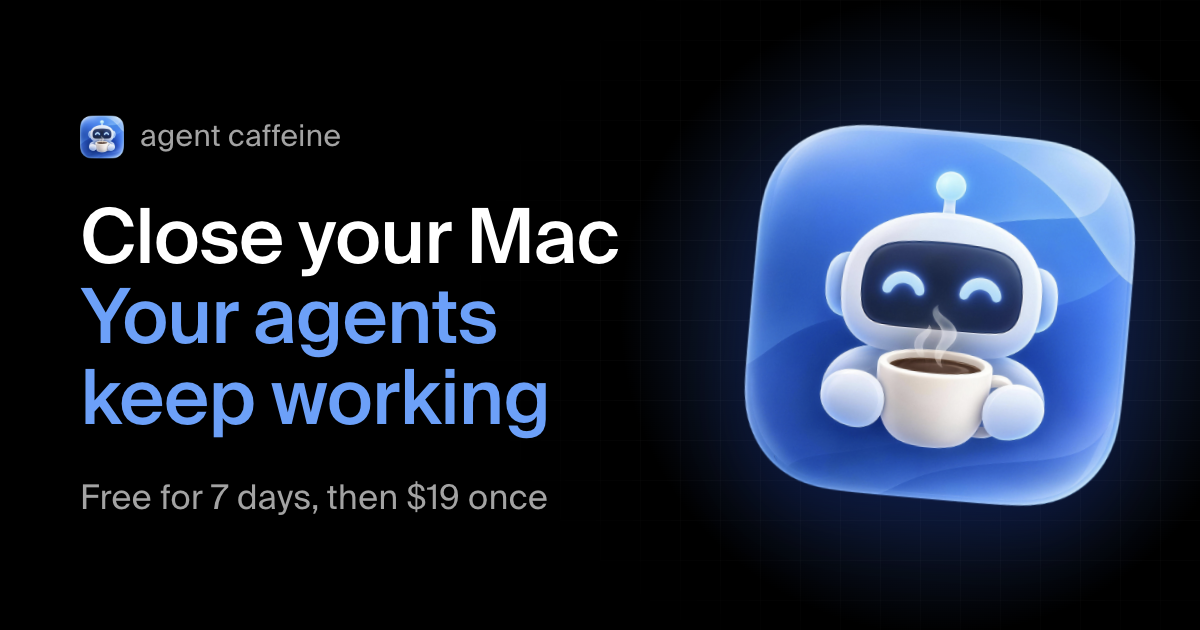
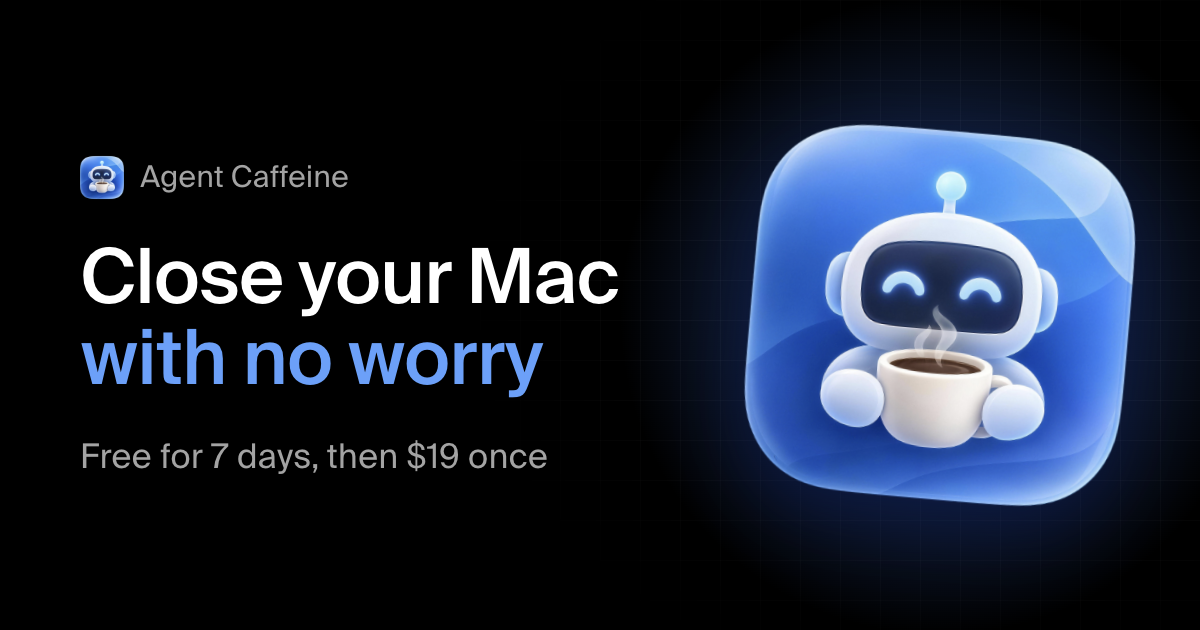
Write the brand as Agent Caffeine across the site, and keep the app's own words as the app has them

Changed region(s): [[0.0617, 0.181, 0.5242, 0.8143]]

diff --git a/site/app/llms.txt/route.ts b/site/app/llms.txt/route.ts
@@ -7,21 +7,21 @@ export const dynamic = "force-static";
 /** "A license key for 1 Mac costs $19." for each plan on offer. */
 const KEYS = PLANS.map((plan) => `A license key for ${macs(plan)} costs ${dollars(plan)}.`).join(" ");
 
-const TEXT = `# agent caffeine
+const TEXT = `# Agent Caffeine
 
-> agent caffeine is a macOS menu bar app that keeps a Mac awake while AI coding agents work, also with the lid closed, and lets it sleep when they are idle or wait for you. It has a 7-day free trial, then costs ${PRICE} once, and runs on macOS 13 or later (Apple silicon and Intel).
+> Agent Caffeine is a macOS menu bar app that keeps a Mac awake while AI coding agents work, also with the lid closed, and lets it sleep when they are idle or wait for you. It has a 7-day free trial, then costs ${PRICE} once, and runs on macOS 13 or later (Apple silicon and Intel).
 
-- Detects more than ${agentsMoreThan} coding agents (Claude Code, Codex, Cursor, opencode, Gemini CLI and others). Claude Code, Codex and Cursor report their own state (working, waiting for you, or idle), and agent caffeine reads it on the Mac. It also watches the commands an agent started, so a build that is still busy keeps the Mac awake. Other agents are judged by signs of work, such as a running command or a write to the session file.
+- Detects more than ${agentsMoreThan} coding agents (Claude Code, Codex, Cursor, opencode, Gemini CLI and others). Claude Code, Codex and Cursor report their own state (working, waiting for you, or idle), and Agent Caffeine reads it on the Mac. It also watches the commands an agent started, so a build that is still busy keeps the Mac awake. Other agents are judged by signs of work, such as a running command or a write to the session file.
 - An agent that waits for your answer keeps the Mac awake for 5 minutes, then the Mac can sleep. Idle sessions do not keep it awake in the default mode. The times can be changed in Settings.
-- Optional better detection: Claude Code, Codex, Cursor, Droid, opencode and Pi can report their state to agent caffeine directly. It is off until you switch it on per agent, and switching it off removes it again.
+- Optional better detection: Claude Code, Codex, Cursor, Droid, opencode and Pi can report their state to Agent Caffeine directly. It is off until you switch it on per agent, and switching it off removes it again.
 - Three modes: always, while an agent is open, or while an agent is working (the default).
 - A closed lid on the power adapter works from the start. On battery it needs a small helper that you allow once in System Settings, and it turns on the \`SleepDisabled\` setting of macOS only while it holds the Mac awake.
 - Safety: when the battery is at 20% (adjustable, or off) or the Mac gets too hot, it lets the Mac sleep and says why in a notification. After a battery stop it starts again at 25%, or when the Mac is plugged in. Do not put a working Mac in a closed bag. On battery the menu shows the charge and that level on one line.
 - The built-in display dims as the lid closes and stays dark while the lid is closed. On a Mac with a lid angle sensor it dims from 45 degrees of lid opening down to closed, and gets bright again the same way when the lid opens.
-- Pause for 30 minutes, 1 hour or until tomorrow. agent caffeine starts again by itself.
+- Pause for 30 minutes, 1 hour or until tomorrow. Agent Caffeine starts again by itself.
 - Stay reachable for 1, 2 or 4 hours: the Mac stays awake until that time, also when no agent works, so a message from a phone (Claude Code Remote Control, Codex remote) reaches the agent. On battery with the lid closed it needs the helper, and it uses about 1% of battery per hour. A message cannot wake a Mac that sleeps.
 - Notifications, each with its own switch: an agent is waiting for your answer (on by default), and an agent finished (off by default).
-- Keyboard shortcuts that work in every app. By default Control+Option+Command+C turns agent caffeine on or off, and Control+Option+Command+P pauses it for 1 hour. You can choose other keys.
+- Keyboard shortcuts that work in every app. By default Control+Option+Command+C turns Agent Caffeine on or off, and Control+Option+Command+P pauses it for 1 hour. You can choose other keys.
 - The menu bar icon can be hidden. The app keeps the Mac awake the same way without it.
 - A 7-day free trial with every feature. It starts the first time the app opens and needs no account, no card and no key. After 7 days the app stops keeping the Mac awake until a license key is entered. The app and its settings stay.
 - ${KEYS} Each is a one-time purchase with lifetime updates and no subscription. Deactivate a Mac in the app or in your Polar purchases to move the key to another.

diff --git a/site/lib/faq.tsx b/site/lib/faq.tsx
@@ -17,7 +17,7 @@ const objections: FaqItem[] = [
         program quits or you stop them. They do not know if an agent works or is idle, so your Mac
         stays awake after the work is done, or sleeps in the middle of it. A command such as
         caffeinate also cannot keep your Mac awake when you close the lid on battery: macOS sleeps
-        then. agent caffeine has a small helper for that, which you allow once. It reads what your
+        then. Agent Caffeine has a small helper for that, which you allow once. It reads what your
         agents do, keeps your Mac awake while they work, and lets it sleep when they are done.
       </>
     ),
@@ -28,12 +28,12 @@ const objections: FaqItem[] = [
     answer: (
       <>
         Not in a closed bag. Do not put your Mac in a closed bag while an agent works: a Mac that
-        works gets warm, and a closed bag keeps the heat in. agent caffeine has two stops for
+        works gets warm, and a closed bag keeps the heat in. Agent Caffeine has two stops for
         safety. When your Mac gets too hot, it always lets your Mac sleep. On battery it lets your
         Mac sleep at {BATTERY_FLOOR}% and starts again at {BATTERY_FLOOR + BATTERY_RECOVERY}%, or
         when you plug in. You can change this level or turn it off in Settings. A notification
         tells you why your Mac slept. The display is off while the lid is closed. Before you put
-        your Mac in a closed bag, pause agent caffeine, and your Mac sleeps as usual.
+        your Mac in a closed bag, pause Agent Caffeine, and your Mac sleeps as usual.
       </>
     ),
   },
@@ -42,7 +42,7 @@ const objections: FaqItem[] = [
     open: true,
     answer: (
       <>
-        No. When no agent works, agent caffeine lets your Mac sleep as usual. In the default mode
+        No. When no agent works, Agent Caffeine lets your Mac sleep as usual. In the default mode
         it keeps your Mac awake while an agent works, for 2 minutes after it finishes, and for 5
         minutes when it waits for your answer. An agent that is open and idle does not keep your
         Mac awake. You can change the times in Settings.
@@ -55,9 +55,9 @@ const objections: FaqItem[] = [
     answer: (
       <>
         Only for one case: the lid is closed and your Mac runs on battery. Only the system can
-        stop macOS from sleeping then, so agent caffeine has a small helper that runs with system
+        stop macOS from sleeping then, so Agent Caffeine has a small helper that runs with system
         rights. You allow it once in System Settings &gt; General &gt; Login Items. It changes one
-        sleep setting of macOS while agent caffeine keeps your Mac awake, and changes it back
+        sleep setting of macOS while Agent Caffeine keeps your Mac awake, and changes it back
         after. You can remove it in the app&apos;s Settings. Everything else works without the
         helper, also the lid closed on the power adapter.
       </>
@@ -70,7 +70,7 @@ const trialItem: FaqItem = {
   question: "Is there a free trial?",
   answer: (
     <>
-      Yes. agent caffeine is a free download for macOS 13 or later, on Apple silicon and Intel.
+      Yes. Agent Caffeine is a free download for macOS 13 or later, on Apple silicon and Intel.
       Every feature works for 7 days from the first time you open it, with no account, no card
       and no key. After 7 days it stops keeping your Mac awake until you enter a license key, and
       your settings stay. A key costs {PRICE_LIST}, paid once.
@@ -88,7 +88,7 @@ const questions: FaqItem[] = [
         still busy keeps your Mac awake after the agent is done. For other agents it watches signs
         of work, such as a running command or a write to the session file. For Claude Code, Codex,
         Cursor, Droid, opencode and Pi you can switch on better detection in Settings. The agent then
-        tells agent caffeine its state directly, and you can switch it off again at any time.
+        tells Agent Caffeine its state directly, and you can switch it off again at any time.
       </>
     ),
   },

diff --git a/site/components/sleep-scenes.tsx b/site/components/sleep-scenes.tsx
@@ -102,7 +102,7 @@ function BatteryStop() {
         className={`w-full max-w-[19rem] transition-[opacity,transform] duration-slow ease-smooth-out motion-reduce:transition-none ${low ? "translate-y-0 opacity-100" : "translate-y-2 opacity-0"}`}
         style={{ transitionDelay: low && !lessMotion ? `${DRAIN}ms` : "0ms" }}
       >
-      <PanelSurface className="flex items-start gap-2.5 rounded-2xl p-2.5 shadow-[0_8px_24px_var(--shadow)]" label="A notification from agent caffeine">
+      <PanelSurface className="flex items-start gap-2.5 rounded-2xl p-2.5 shadow-[0_8px_24px_var(--shadow)]" label="A notification from Agent Caffeine">
         <img alt="" className="size-8 shrink-0" decoding="async" height={32} loading="lazy" src="/icon.png" width={32} />
         <span className="flex min-w-0 flex-col gap-px text-[12px] leading-4">
           <span className="font-medium">agent caffeine</span>
@@ -132,10 +132,10 @@ export function SleepScenes() {
       <SectionHeading lead="It keeps your Mac awake for work, and for nothing else" title="It lets your Mac sleep at the right time" />
       <ul className="mx-auto grid w-full max-w-[36rem] gap-4 lg:max-w-none lg:grid-cols-3">
         <Scene
-          text="agent caffeine keeps your Mac awake for 5 minutes, so you can answer. After that your Mac can sleep. You can change the time"
+          text="Agent Caffeine keeps your Mac awake for 5 minutes, so you can answer. After that your Mac can sleep. You can change the time"
           title="An agent asks you something while you are away"
         >
-          <PanelSurface className="panel-still flex h-full flex-col justify-center rounded-none border-0" label="The agent caffeine menu while Claude Code waits for you">
+          <PanelSurface className="panel-still flex h-full flex-col justify-center rounded-none border-0" label="The Agent Caffeine menu while Claude Code waits for you">
             <div className="flex items-center gap-3 px-4 pb-3">
               <Robot pose="attentive" size={56} still />
               <p className="flex min-w-0 flex-col gap-0.5">
@@ -150,7 +150,7 @@ export function SleepScenes() {
           </PanelSurface>
         </Scene>
         <Scene
-          text={`Your agents keep working. On battery, macOS asks you once to allow a small helper. agent caffeine lets your Mac sleep at ${BATTERY_FLOOR}% battery and when it gets too hot. Do not put a working Mac in a closed bag`}
+          text={`Your agents keep working. On battery, macOS asks you once to allow a small helper. Agent Caffeine lets your Mac sleep at ${BATTERY_FLOOR}% battery and when it gets too hot. Do not put a working Mac in a closed bag`}
           title="The lid is closed and your Mac runs on battery"
         >
           <BatteryStop />
@@ -159,7 +159,7 @@ export function SleepScenes() {
           text="A session is one open chat with an agent. Only the one that works keeps your Mac awake"
           title="10 sessions are open and 1 is working"
         >
-          <PanelSurface className="panel-still flex h-full flex-col justify-center rounded-none border-0 px-[13px]" label="The agent caffeine menu with one working session and nine idle ones">
+          <PanelSurface className="panel-still flex h-full flex-col justify-center rounded-none border-0 px-[13px]" label="The Agent Caffeine menu with one working session and nine idle ones">
             {ONE_OF_TEN.map((group) => (
               <GroupRows key={group.agent} group={group} />
             ))}

diff --git a/site/components/small-things.tsx b/site/components/small-things.tsx
@@ -129,7 +129,7 @@ export function SmallThings() {
           text="Your Mac stays awake for 1, 2 or 4 hours, so a message from your phone reaches your agent"
           title="Stay reachable from your phone"
         >
-          <PanelSurface className="panel-still w-full max-w-[19rem]" label="The agent caffeine menu while your Mac stays reachable until 11:41">
+          <PanelSurface className="panel-still w-full max-w-[19rem]" label="The Agent Caffeine menu while your Mac stays reachable until 11:41">
             <div className="flex items-center gap-3 px-4 py-2.5">
               <Robot pose="reachable" size={40} still />
               <p className="flex min-w-0 flex-col gap-0.5">
@@ -147,7 +147,7 @@ export function SmallThings() {
             </div>
           </PanelSurface>
         </Thing>
-        <Thing text="Pause for 30 minutes, 1 hour or until tomorrow. agent caffeine starts again by itself" title="Pause it for a while">
+        <Thing text="Pause for 30 minutes, 1 hour or until tomorrow. Agent Caffeine starts again by itself" title="Pause it for a while">
           <PanelSurface className="rounded-[10px] p-[5px] shadow-[0_8px_24px_var(--shadow)]" label="The timer menu: pause for 30 minutes, for 1 hour or until tomorrow">
             <ul aria-hidden="true">
               <TimerChoices active={1} bar={{ reachable: false, reachableCost: null }} />
@@ -160,7 +160,7 @@ export function SmallThings() {
         >
           <PanelSurface
             className="flex w-full max-w-[19rem] items-start gap-2.5 rounded-2xl p-2.5 shadow-[0_8px_24px_var(--shadow)]"
-            label="A notification from agent caffeine: Claude Code is waiting for you"
+            label="A notification from Agent Caffeine: Claude Code is waiting for you"
           >
             <img alt="" className="size-8 shrink-0" decoding="async" height={32} loading="lazy" src="/icon.png" width={32} />
             <span className="flex min-w-0 flex-col gap-px text-[12px] leading-4">
@@ -170,12 +170,12 @@ export function SmallThings() {
             </span>
           </PanelSurface>
         </Thing>
-        <Thing text="On battery the menu shows the charge, and the level where agent caffeine lets your Mac sleep" title="You see how much battery is left">
-          <PanelSurface className="flex w-full max-w-[19rem] justify-center px-4 py-3.5" label="The line of the battery in the agent caffeine menu">
+        <Thing text="On battery the menu shows the charge, and the level where Agent Caffeine lets your Mac sleep" title="You see how much battery is left">
+          <PanelSurface className="flex w-full max-w-[19rem] justify-center px-4 py-3.5" label="The line of the battery in the Agent Caffeine menu">
             <BatteryLine battery={NEAR_FLOOR} />
           </PanelSurface>
         </Thing>
-        <Thing text="Turn agent caffeine on or off, or pause it for 1 hour, from any app. You can change the keys" title="Keyboard shortcuts">
+        <Thing text="Turn Agent Caffeine on or off, or pause it for 1 hour, from any app. You can change the keys" title="Keyboard shortcuts">
           <Rows label="The keyboard shortcuts in Settings">
             {SHORTCUTS.map((shortcut, index) => (
               <div key={shortcut.title}>

diff --git a/site/components/hero-scene.tsx b/site/components/hero-scene.tsx
@@ -178,7 +178,7 @@ function MenuBar({ time, look, still }: { time: string; look: IconLook; still: b
  */
 function Panel({ title, subtitle, stance, rest, rows, paused, still }: { title: string; subtitle: string; stance: Pose; rest: number; rows: readonly Row[]; paused: boolean; still: boolean }) {
   return (
-    <PanelSurface className={`w-full shadow-[0_12px_32px_var(--shadow)] ${paused ? "panel-paused" : ""}`} label="The agent caffeine menu">
+    <PanelSurface className={`w-full shadow-[0_12px_32px_var(--shadow)] ${paused ? "panel-paused" : ""}`} label="The Agent Caffeine menu">
       <div className="flex items-center gap-3 px-4 py-3">
         {/* A robot that sleeps stands still here: the one that breathes in its sleep is in the menu further down the page. */}
         <Robot paused={paused} pose={stance} rest={rest} size={48} still={stance === "asleep"} />
@@ -227,7 +227,7 @@ function Notice({ shown }: { shown: number }) {
       className="absolute inset-x-0 bottom-[6%] z-20 mx-auto w-[19rem]"
       style={{ opacity: shown, transform: `translateY(${(shown - 1) * 12}px)` }}
     >
-      <PanelSurface className="flex items-start gap-2.5 rounded-2xl p-2.5 shadow-[0_8px_24px_var(--shadow)]" label={`A notification from agent caffeine: ${FIRST_DONE.name} finished`}>
+      <PanelSurface className="flex items-start gap-2.5 rounded-2xl p-2.5 shadow-[0_8px_24px_var(--shadow)]" label={`A notification from Agent Caffeine: ${FIRST_DONE.name} finished`}>
         <img alt="" className="size-8 shrink-0" decoding="async" height={32} src="/icon.png" width={32} />
         <span className="flex min-w-0 flex-col gap-px text-[12px] leading-4">
           <span className="font-medium">{FIRST_DONE.name} finished</span>
@@ -313,8 +313,8 @@ export function HeroScene({ cut = "a" }: { cut?: HeroSceneCut }) {
   const bob = carried * Math.sin(walked * Math.PI * 16);
   const label =
     cut === "b"
-      ? "A laptop shows the agent caffeine menu with four AI coding agents at work. The lid closes and the laptop is carried away. The agents keep working and finish one by one, and then the Mac can sleep"
-      : "A laptop shows the agent caffeine menu on its display, with four AI coding agents at work. The lid closes, and the menu stays in a dashed outline of the display: the agents keep working and finish one by one. Two minutes after the last one the menu says that the Mac can sleep";
+      ? "A laptop shows the Agent Caffeine menu with four AI coding agents at work. The lid closes and the laptop is carried away. The agents keep working and finish one by one, and then the Mac can sleep"
+      : "A laptop shows the Agent Caffeine menu on its display, with four AI coding agents at work. The lid closes, and the menu stays in a dashed outline of the display: the agents keep working and finish one by one. Two minutes after the last one the menu says that the Mac can sleep";
 
   // The dashed outline of the display comes in as the lid leaves it.
   const ghost = stretch(closed, 0.15, 0.85, easeInOut);

diff --git a/site/app/terms/page.tsx b/site/app/terms/page.tsx
@@ -4,7 +4,7 @@ import { CONTACT_EMAIL, TERMS_UPDATED } from "@/lib/site";
 
 export const metadata = legalMetadata(
   "Terms",
-  `The terms for agent caffeine: what a license key covers, a 7-day free trial, ${PRICE_LIST}, paid once through Polar, and what the app does and does not promise.`,
+  `The terms for Agent Caffeine: what a license key covers, a 7-day free trial, ${PRICE_LIST}, paid once through Polar, and what the app does and does not promise.`,
   "/terms"
 );
 
@@ -12,21 +12,21 @@ export default function Terms() {
   return (
     <LegalPage title="Terms" updated={TERMS_UPDATED}>
       <p>
-        These terms cover agent caffeine, a macOS app made and sold by me, Mert Duzgun, an
+        These terms cover Agent Caffeine, a macOS app made and sold by me, Mert Duzgun, an
         individual based in Antalya, Türkiye. By buying or using the app you agree to them.
       </p>
 
       <h2>What you get</h2>
       <p>
         {PLANS.length === 1
-          ? "A license key lets you use agent caffeine on one Mac at a time."
-          : "A license key lets you use agent caffeine on one Mac at a time, or on up to three Macs at a time, depending on the plan you buy."}{" "}
+          ? "A license key lets you use Agent Caffeine on one Mac at a time."
+          : "A license key lets you use Agent Caffeine on one Mac at a time, or on up to three Macs at a time, depending on the plan you buy."}{" "}
         To move it to another Mac, deactivate it on a Mac you no longer use, in the app or in your
         Polar purchases, then enter it on the new one.
       </p>
       <p>
         Your key includes lifetime updates. Lifetime updates means that updates are included for as
-        long as agent caffeine is developed. I do not promise any future features.
+        long as Agent Caffeine is developed. I do not promise any future features.
       </p>
 
       <h2>Free trial</h2>

diff --git a/site/app/privacy/page.tsx b/site/app/privacy/page.tsx
@@ -3,7 +3,7 @@ import { CONTACT_EMAIL, PRIVACY_UPDATED } from "@/lib/site";
 
 export const metadata = legalMetadata(
   "Privacy",
-  "What agent caffeine, its purchase and this website collect: no telemetry in the app, Polar for payments, self-hosted analytics with no cookies.",
+  "What Agent Caffeine, its purchase and this website collect: no telemetry in the app, Polar for payments, self-hosted analytics with no cookies.",
   "/privacy"
 );
 
@@ -11,7 +11,7 @@ export default function Privacy() {
   return (
     <LegalPage title="Privacy" updated={PRIVACY_UPDATED}>
       <p>
-        agent caffeine is made and sold by me, Mert Duzgun, an individual based in Antalya, Türkiye.
+        Agent Caffeine is made and sold by me, Mert Duzgun, an individual based in Antalya, Türkiye.
         I am responsible for the data on this page. Here is what the app, a purchase and this website
         collect, and why.
       </p>
@@ -30,11 +30,11 @@ export default function Privacy() {
         Mac.
       </p>
       <p>
-        Better detection is off until you switch it on for an agent. agent caffeine then adds a few
+        Better detection is off until you switch it on for an agent. Agent Caffeine then adds a few
         lines to that agent&apos;s own settings file and keeps a backup next to it. The agent
-        writes its state to a small file in agent caffeine&apos;s folder on your Mac. That file
+        writes its state to a small file in Agent Caffeine&apos;s folder on your Mac. That file
         holds the state and the name of the event, and nothing you or the agent typed. When you
-        switch better detection off, agent caffeine removes its lines again.
+        switch better detection off, Agent Caffeine removes its lines again.
       </p>
       <p>It makes two kinds of network request:</p>
       <ul>

diff --git a/site/app/layout.tsx b/site/app/layout.tsx
@@ -26,11 +26,11 @@ export async function generateMetadata(): Promise<Metadata> {
   return {
     metadataBase: new URL("https://caffeinagent.com"),
     alternates: { canonical: "/" },
-    title: "agent caffeine · Keep your Mac awake while AI agents work",
+    title: "Agent Caffeine · Keep your Mac awake while AI agents work",
     description:
       `Agent-aware sleep prevention for macOS. Detects Claude Code, Codex, opencode and more than ${agentsMoreThan} AI coding agents. Lets the Mac sleep when they are idle or wait for you. ${offer}`,
     openGraph: {
-      title: "agent caffeine",
+      title: "Agent Caffeine",
       description:
         `Keep your Mac awake while AI agents work. Agent-aware sleep prevention for macOS. ${offer}`,
       type: "website",
@@ -40,13 +40,13 @@ export async function generateMetadata(): Promise<Metadata> {
           url: "/og.png",
           width: 1200,
           height: 630,
-          alt: "agent caffeine. Close your Mac, your agents keep working",
+          alt: "Agent Caffeine. Close your Mac with no worry",
         },
       ],
     },
     twitter: {
       card: "summary_large_image",
-      title: "agent caffeine",
+      title: "Agent Caffeine",
       description:
         `Keep your Mac awake while AI agents work. Agent-aware sleep prevention for macOS. ${offer}`,
       images: ["/og.png"],

diff --git a/site/components/site-header.tsx b/site/components/site-header.tsx
@@ -144,8 +144,8 @@ export function SiteHeader({ release }: { release: Release | null }) {
         />
         <Link
           href="/"
-          aria-label="agent caffeine"
-          className={`relative inline-flex min-w-0 max-w-full items-center gap-2 justify-self-start text-sm lowercase text-muted no-underline hover:text-fg ${
+          aria-label="Agent Caffeine"
+          className={`relative inline-flex min-w-0 max-w-full items-center gap-2 justify-self-start text-sm text-muted no-underline hover:text-fg ${
             pill ? "rounded-full" : ""
           }`}
         >
@@ -153,7 +153,7 @@ export function SiteHeader({ release }: { release: Release | null }) {
             <Image src="/icon.png" alt="" width={28} height={28} priority className={pill ? "size-7" : "size-6"} />
           </span>
           <span {...morphName("header-name")} className={`truncate ${pill ? "hidden" : ""}`}>
-            agent caffeine
+            Agent Caffeine
           </span>
         </Link>
         <nav aria-label="Site" className="relative hidden items-center gap-6 md:flex">

diff --git a/site/app/page.tsx b/site/app/page.tsx
@@ -20,7 +20,7 @@ function structuredData(trial: boolean) {
     "@graph": [
       {
         "@type": "SoftwareApplication",
-        name: "agent caffeine",
+        name: "Agent Caffeine",
         operatingSystem: "macOS 13 or later",
         applicationCategory: "UtilitiesApplication",
         url: SITE_URL,
@@ -41,7 +41,7 @@ function structuredData(trial: boolean) {
         ],
         offers: PLANS.map((plan) => ({
           "@type": "Offer",
-          name: `agent caffeine for ${macs(plan)}`,
+          name: `Agent Caffeine for ${macs(plan)}`,
           price: String(plan.price),
           priceCurrency: "USD",
           url: SITE_URL,
@@ -56,7 +56,7 @@ function structuredData(trial: boolean) {
         })),
       },
       ORGANIZATION,
-      { "@type": "WebSite", name: "agent caffeine", url: SITE_URL },
+      { "@type": "WebSite", name: "Agent Caffeine", url: SITE_URL },
     ],
   };
 }

diff --git a/site/app/og-image/page.tsx b/site/app/og-image/page.tsx
@@ -27,16 +27,12 @@ export default function OgImage() {
       <div className="relative flex flex-col gap-10">
         <p className="flex items-center gap-4 text-[30px] leading-none text-[#a3a3a3]">
           <img alt="" className="size-11" height={44} src="/icon.png" width={44} />
-          agent caffeine
+          Agent Caffeine
         </p>
         <h1 className="text-[76px] font-medium leading-[1.06] tracking-[-0.02em]">
           Close your Mac
           <br />
-          <span className="text-[#5aa2ff]">
-            Your agents
-            <br />
-            keep working
-          </span>
+          <span className="text-[#5aa2ff]">with no worry</span>
         </h1>
         <p className="text-[34px] leading-none text-[#a3a3a3]">Free for 7 days, then {PRICE} once</p>
       </div>

diff --git a/site/app/blog/[slug]/page.tsx b/site/app/blog/[slug]/page.tsx
@@ -115,7 +115,7 @@ export default async function BlogPost({ params }: Props) {
         </div>
         <aside className="flex flex-col items-start gap-5 rounded-lg border border-border bg-surface px-6 py-8 sm:flex-row sm:items-center sm:justify-between">
           <p className="text-pretty leading-relaxed">
-            We built agent caffeine to keep a Mac awake while coding agents work, also with
+            We built Agent Caffeine to keep a Mac awake while coding agents work, also with
             the lid closed.{" "}
             {release === null
               ? `${PRICE} once. macOS 13 or later, Apple silicon and Intel.`
